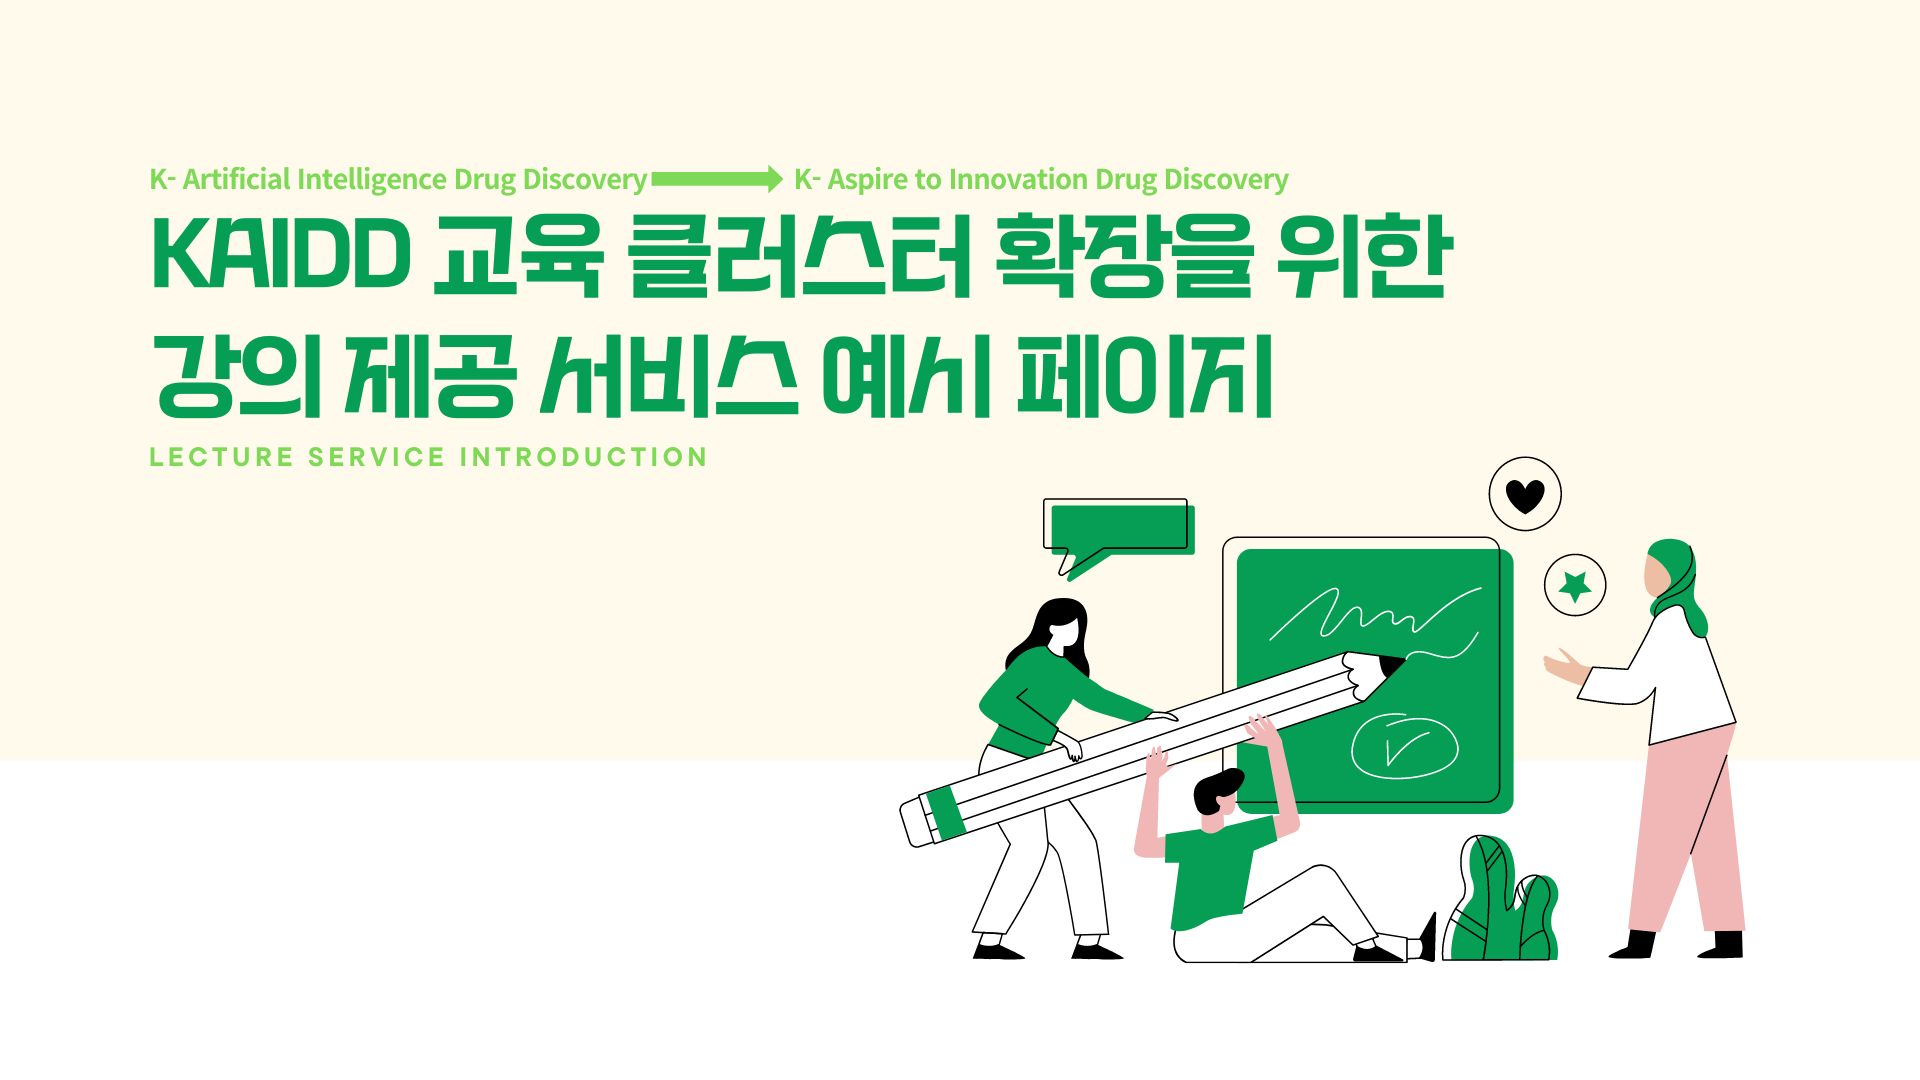
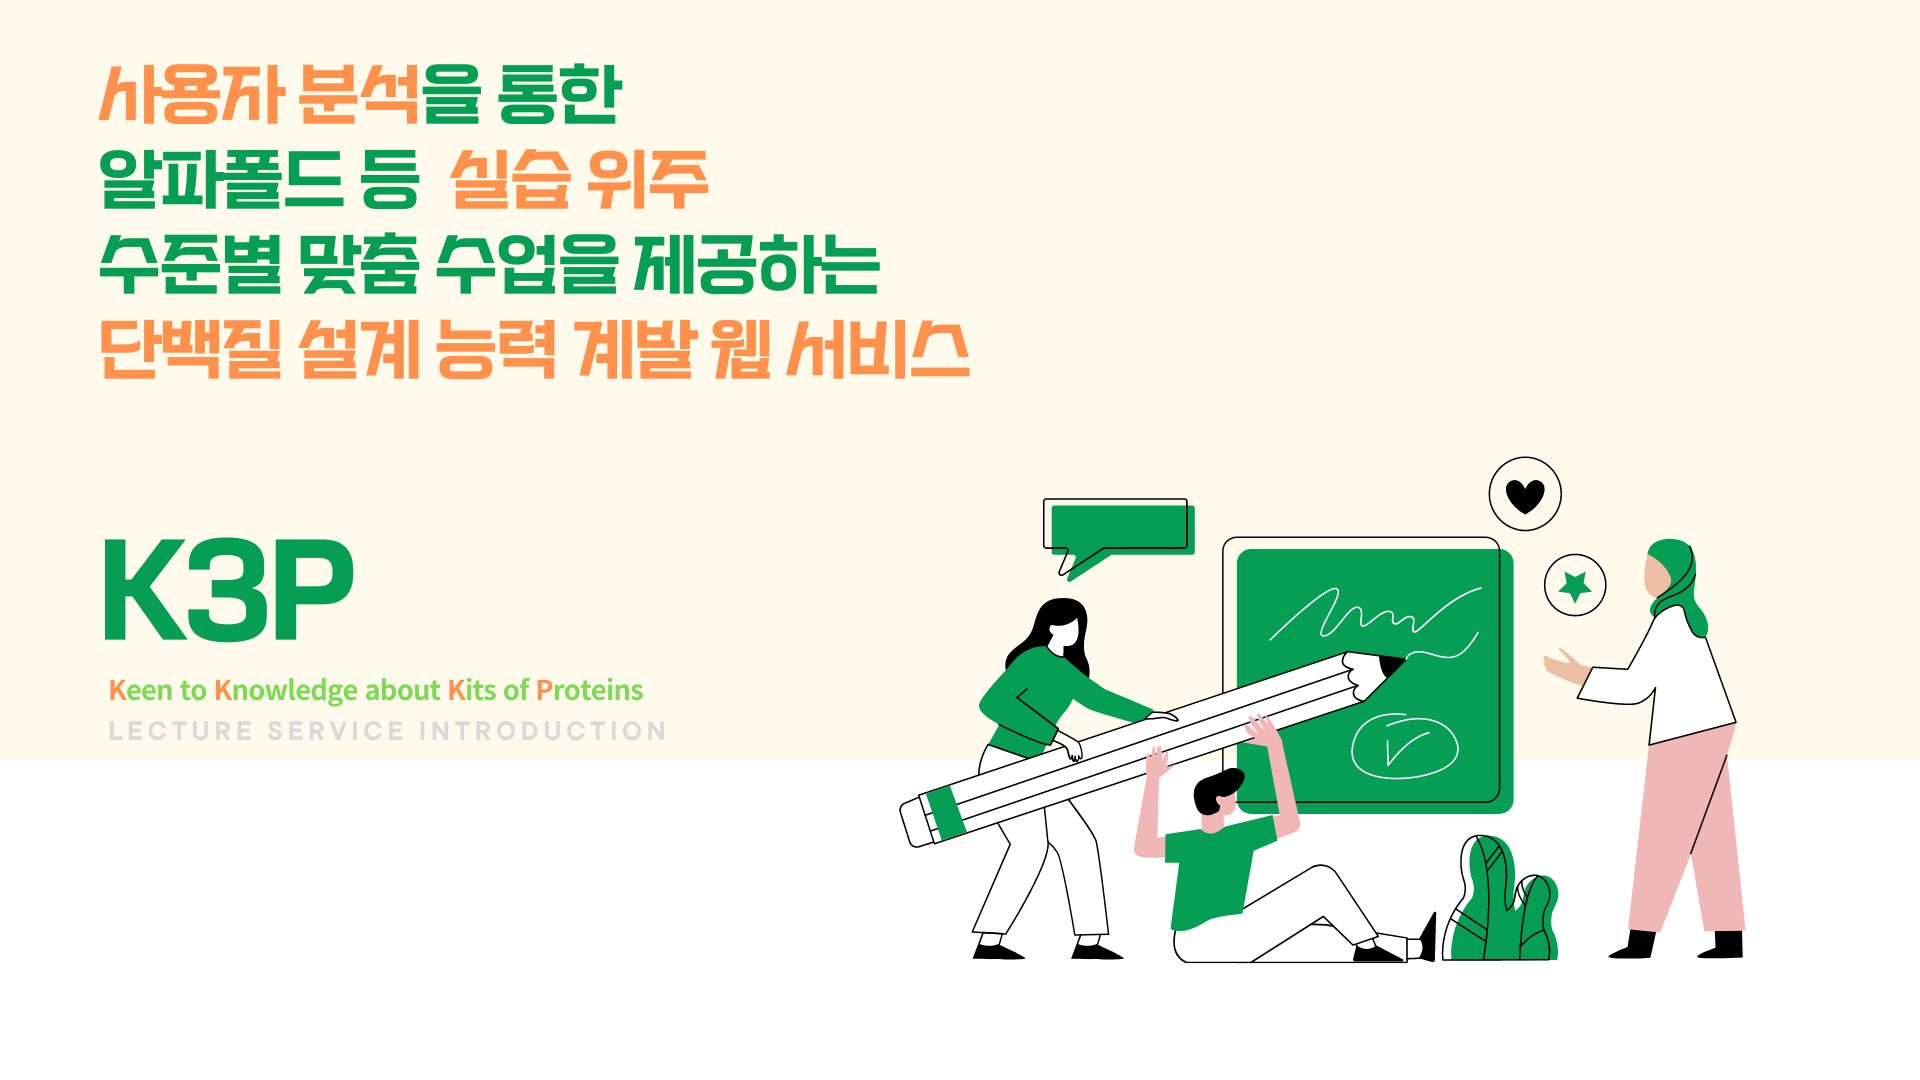
Docs: introduce.jpg image change

Changed region(s): [[0.0312, 0.0611, 0.7812, 0.4278], [0.0312, 0.4889, 0.3438, 0.7028]]

diff --git a/src/main/resources/static/testzone_color_change.js b/src/main/resources/static/testzone_color_change.js
@@ -7,9 +7,9 @@ document.addEventListener("DOMContentLoaded", function() {
             .then(isPassed => {
                 if (isPassed) {
                     const testSpot = document.getElementById(elementId);
-                    testSpot.querySelector('.component_frame_top').style.backgroundColor = '#00f846';
-                    testSpot.querySelector('.test_spot_compo_left').style.backgroundColor = '#02bd37';
-                    testSpot.querySelector('.test_spot_compo_right').style.backgroundColor = '#00dd3f';
+                    testSpot.querySelector('.component_frame_top').style.backgroundColor = '#82db9b';
+                    testSpot.querySelector('.test_spot_compo_left').style.backgroundColor = '#5cbd77';
+                    testSpot.querySelector('.test_spot_compo_right').style.backgroundColor = '#6ed48b';
                 }
             })
             .catch(error => console.error('Error checking quiz status:', error));

diff --git a/src/main/resources/static/intro.html b/src/main/resources/static/intro.html
@@ -20,7 +20,7 @@
           <div class="logo">K3P</div>
         </h1>
         <div class="intro_section">
-          <a id="L1" href="#section1"><span>Introducing KAIDD</span></a>
+          <a id="L1" href="#section1"><span>Introducing K3P</span></a>
           <a id="L2" href="#section2"><span>교육 과정</span></a>
           <a id="L3" href="#section3"><span>이용 방법</span></a>
         </div>
@@ -107,7 +107,7 @@
               <button type="button" id="kakao_login_btn">
                 카카오 계정으로 로그인
               </button>
-            </form> 
+            </form>
             <form method="post" action="/signup" id="signup_form" style="display: none;">
               <span class="form_title">아이디</span>
               <div class="input_check_div">

diff --git a/src/main/resources/static/frame_change.js b/src/main/resources/static/frame_change.js
@@ -114,7 +114,7 @@ document.addEventListener("DOMContentLoaded", function() {
                 lec_selectors.forEach(selector => {
                     const selectorLessonId = selector.getAttribute('data-lesson-id');
                     if (data.passedLessons.includes(parseInt(selectorLessonId))) {
-                        selector.style.backgroundColor = '#06b500';
+                        selector.style.backgroundColor = '#5daa72';
                     } else if (data.completedLessons.includes(parseInt(selectorLessonId))) {
                         selector.style.backgroundColor = 'yellow'; // 통과한 강의는 초록색으로 표시
                     } else {

diff --git a/src/main/resources/static/quiz.css b/src/main/resources/static/quiz.css
@@ -41,8 +41,10 @@ h1 {
 }
 
 .card .questionNumber{
-    margin: 0 300px;
     padding: 5px 0;
+    width: 150px;
+    min-width: 150px;
+    margin: 0 auto;
     font-size: 15px;
     font-weight: bolder;
     text-align: center;
